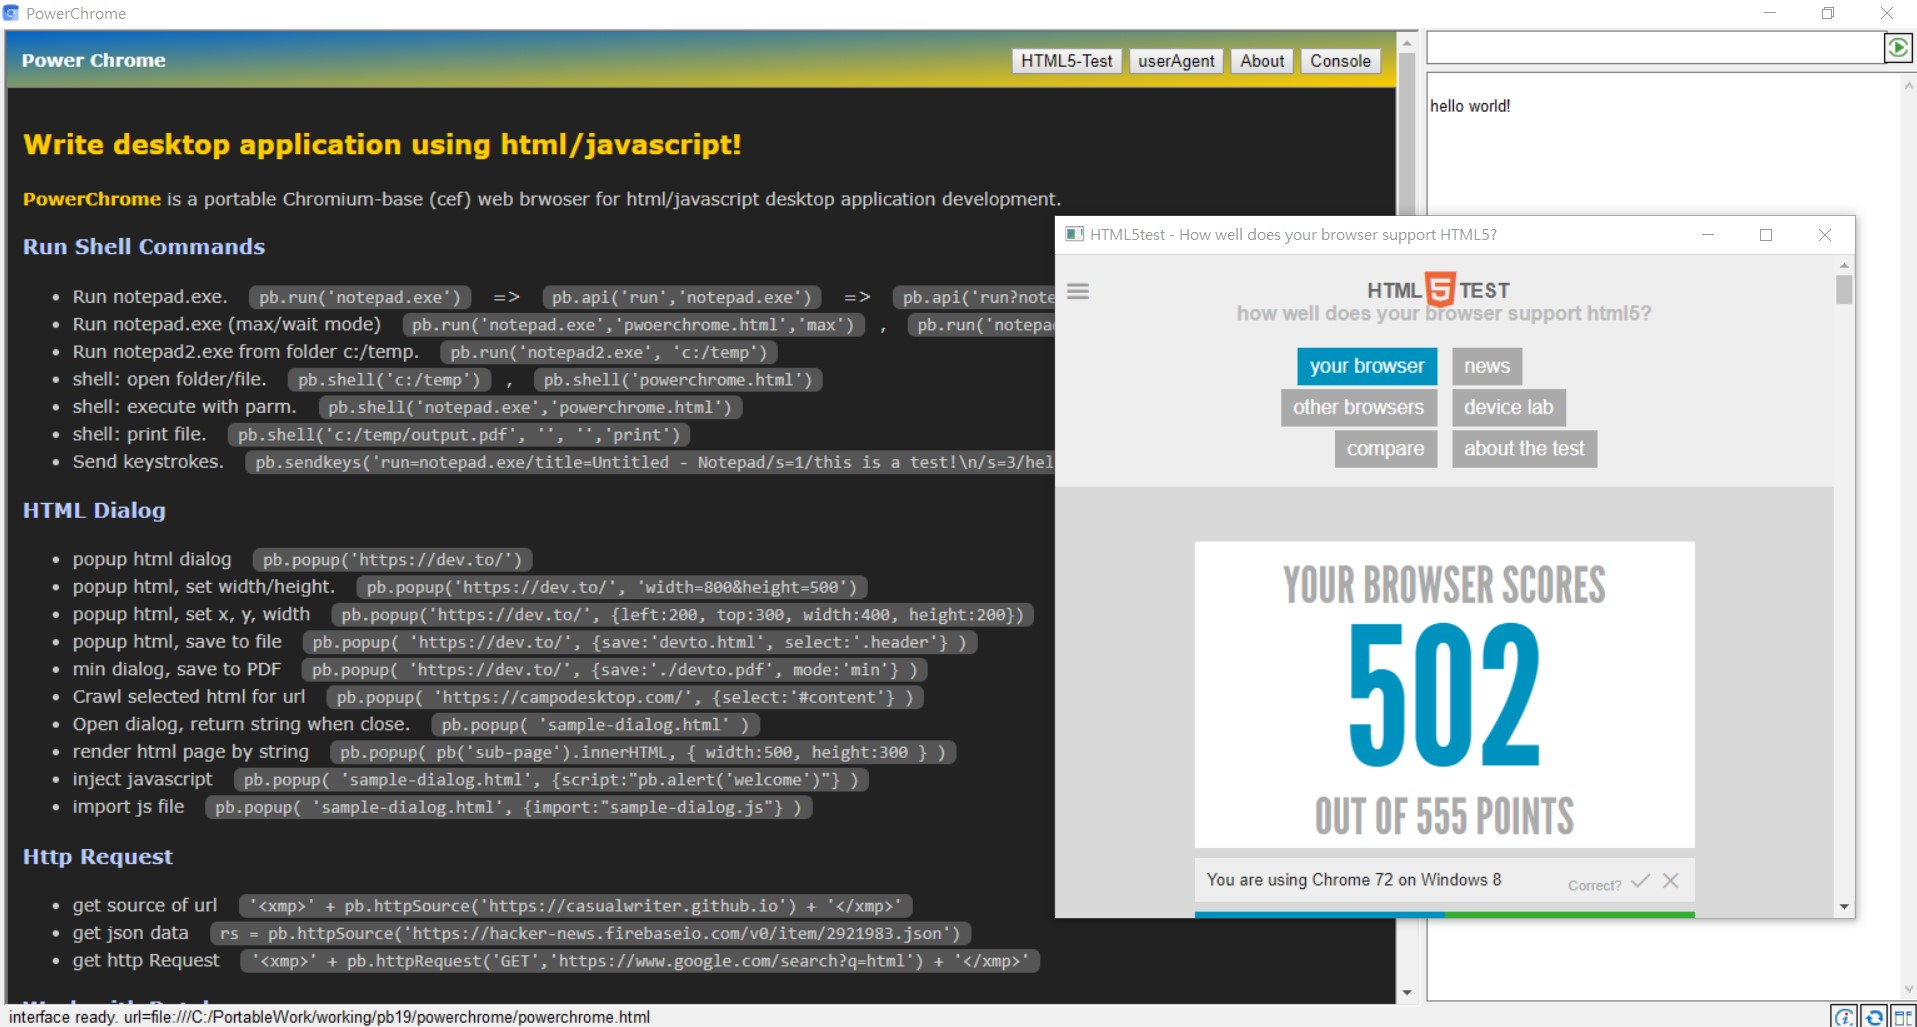
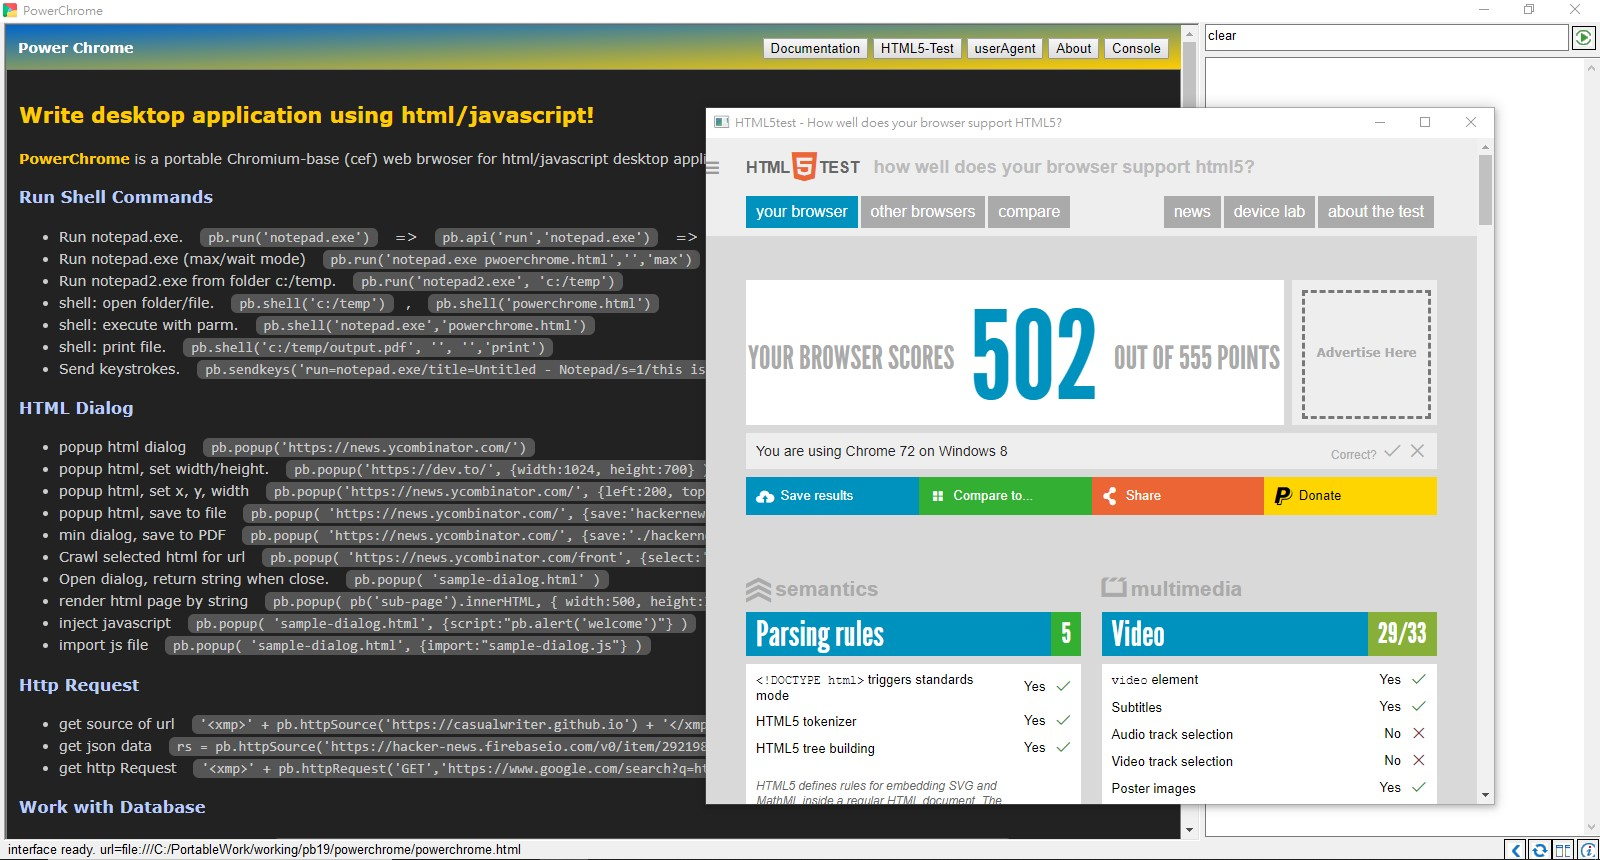
update for powerchrome v0.60

diff --git a/powerchrome/powerchrome.html b/powerchrome/powerchrome.html
@@ -27,7 +27,7 @@ window.onload = function() {
   // markup content
   let ctn = document.getElementById('content')
   let html = ctn.innerHTML.replace( /``(.+?)``\((.+?)\)/gm, '<code class=command title="$2">$1</code>')
-  ctn.innerHTML = html.replace( /``(.+?)``/gm, '<code class=command title="click to run interface">$1</code>')
+  ctn.innerHTML = html.replace( /``(.+?)``/gm, '<code class=command title="click to run javascript code">$1</code>')
 
   // click event for command.
   let elements = document.getElementsByClassName('command')
@@ -46,9 +46,10 @@ function showResult(exp) {
 // when powerchrome page ready, setup mini button and open console 
 function onPageReady() {
   pb.api( 'minibutton', 'clear' )
+  pb.api( 'minibutton', {script:'pb.about()', title:'About', icon:'toolkitabout!'} )
   pb.api( 'minibutton', {script:"console", title:'Console', icon:'tile!'} )
   pb.api( 'minibutton', {script:'refresh', title:'Refresh', icon:'Synchronizer1!'} )
-  pb.api( 'minibutton', {script:'pb.about()', title:'About', icon:'toolkitabout!'} )
+  pb.api( 'minibutton', {script:'back', title:'Go Back', icon:'Prior3!'} )
 }  
 
 // prompt message before page close 
@@ -60,10 +61,11 @@ function onPageClose() { return 'Close window and exit?' }
 <div id="header" style="background: linear-gradient(to bottom right, #06c, #fc0); color:white; height:20px; padding:12px;">
   <div id="heading" style="float:left;font-size:14px;font-weight:bold">Power Chrome</div>
   <div id="top-right" style="float:right">
- 		<button onclick="window.open('http://html5test.com/', 'new', 'width=1024,height=700')">HTML5-Test</button>
-    <button onclick="pb.alert(navigator.userAgent)">userAgent</button>
- 		<button onclick="pb.about()">About</button>
- 		<button onclick="pb.api('console')">Console</button>
+ 		<button onclick="location.href=this.title" title="https://casualwriter.github.io/powerchrome/">Documentation</button>
+ 		<button onclick="window.open(this.title,'new','width=1024,height=700')" title="http://html5test.com/">HTML5-Test</button>
+    <button onclick="pb.alert(navigator.userAgent)" title="show navigator.userAgent">userAgent</button>
+ 		<button onclick="pb.about()" title="about dialog">About</button>
+ 		<button onclick="pb.api('console')" title="toggle console">Console</button>
   </div>
 </div>
 <div id="result" style="display:none"></div>
@@ -108,7 +110,7 @@ for html/javascript desktop application development.
 <h3>Work with Database</h3>
 <ul>
   <li>connect MS Access (ODBC).  ``pb.dbConnect('ODBC',"connectstring='DRIVER={Microsoft Access Driver (*.mdb)};DBQ=sample.mdb'")``
-  <li>connect oracle (native).  ``pb.dbConnect('O90', '', 'PROFILE', 'scott', 'jaguar')``
+  <li>connect oracle (native).  ``pb.dbConnect('O90', '', 'PROFILE', 'scott', 'tiger')``
   <li>Connect oracle (JDBC). ``pb.dbConnect('JDBC',"Driver='oracle.jdbc.driver.OracleDriver',URL='jdbc:oracle:thin:user/password@db-server:1521/xe'",'','','')``  
   <li>disconnect, commit, rollback.  ``pb.dbDisconnect()``, ``pb.dbCommit()``, ``pb.dbRollback()``
   <li>SQL query, return json string.  ``pb.dbQuery("select * from categories")``
